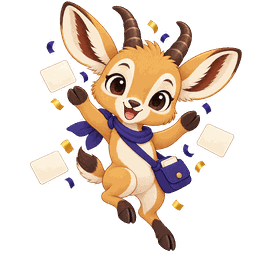
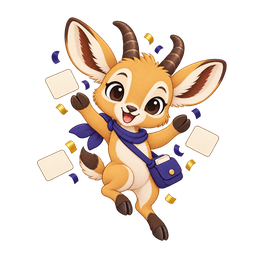
Improve Ankilope celebration framing
Preserve the celebration pose with clear ear and horn margins. Keep card and add-on export sizes unchanged. Reviewed the final art and diff; all CI checks pass and all 38 generated Android WebPs match merged Android main byte for byte.

Assisted-by: Codex (GPT-6)

Changed region(s): [[0.1562, 0.0, 0.9688, 1.0], [0.0938, 0.625, 0.2188, 0.7188]]

diff --git a/docs/branding/ankilope-celebrate-review/README.md b/docs/branding/ankilope-celebrate-review/README.md
@@ -1,0 +1,20 @@
+# Ankilope celebration framing
+
+Issue #88 asks for more room above the ear. The revised transparent 1254px
+master keeps Ankilope's joyful jumping pose, indigo scarf and satchel, blank
+flashcards and confetti. At alpha above 16, the top margin grows from 6px to
+84px and the bottom margin from 24px to 74px.
+
+The exact built-in image_gen edit prompt is recorded in `../aki-prompts.json`.
+The input was `static/ankilope/celebrate.png` at server commit
+`2038ae27b34ad4841096764b7e9e405b1e6c0af8`. This is a generated revision, not a
+pixel-identical rescale. Every client variant derives from this same master:
+the card PNG stays 512px and the desktop add-on PNG stays 256px, resized with
+Pillow's Lanczos filter and saved as optimized PNGs. Their decoded pixels match
+those resizes exactly; [export hashes](exports.json) record the files. Android
+uses the existing 336px WebP exporter.
+
+[Before/after](review.png) shows the PNGs at 128px and 64px on light and dark
+backgrounds. Both full-size composites were also inspected. See
+[alpha bounds](measurements.json); very low-alpha pixels are reported separately
+so raw preview fringes are not mistaken for opaque content.
